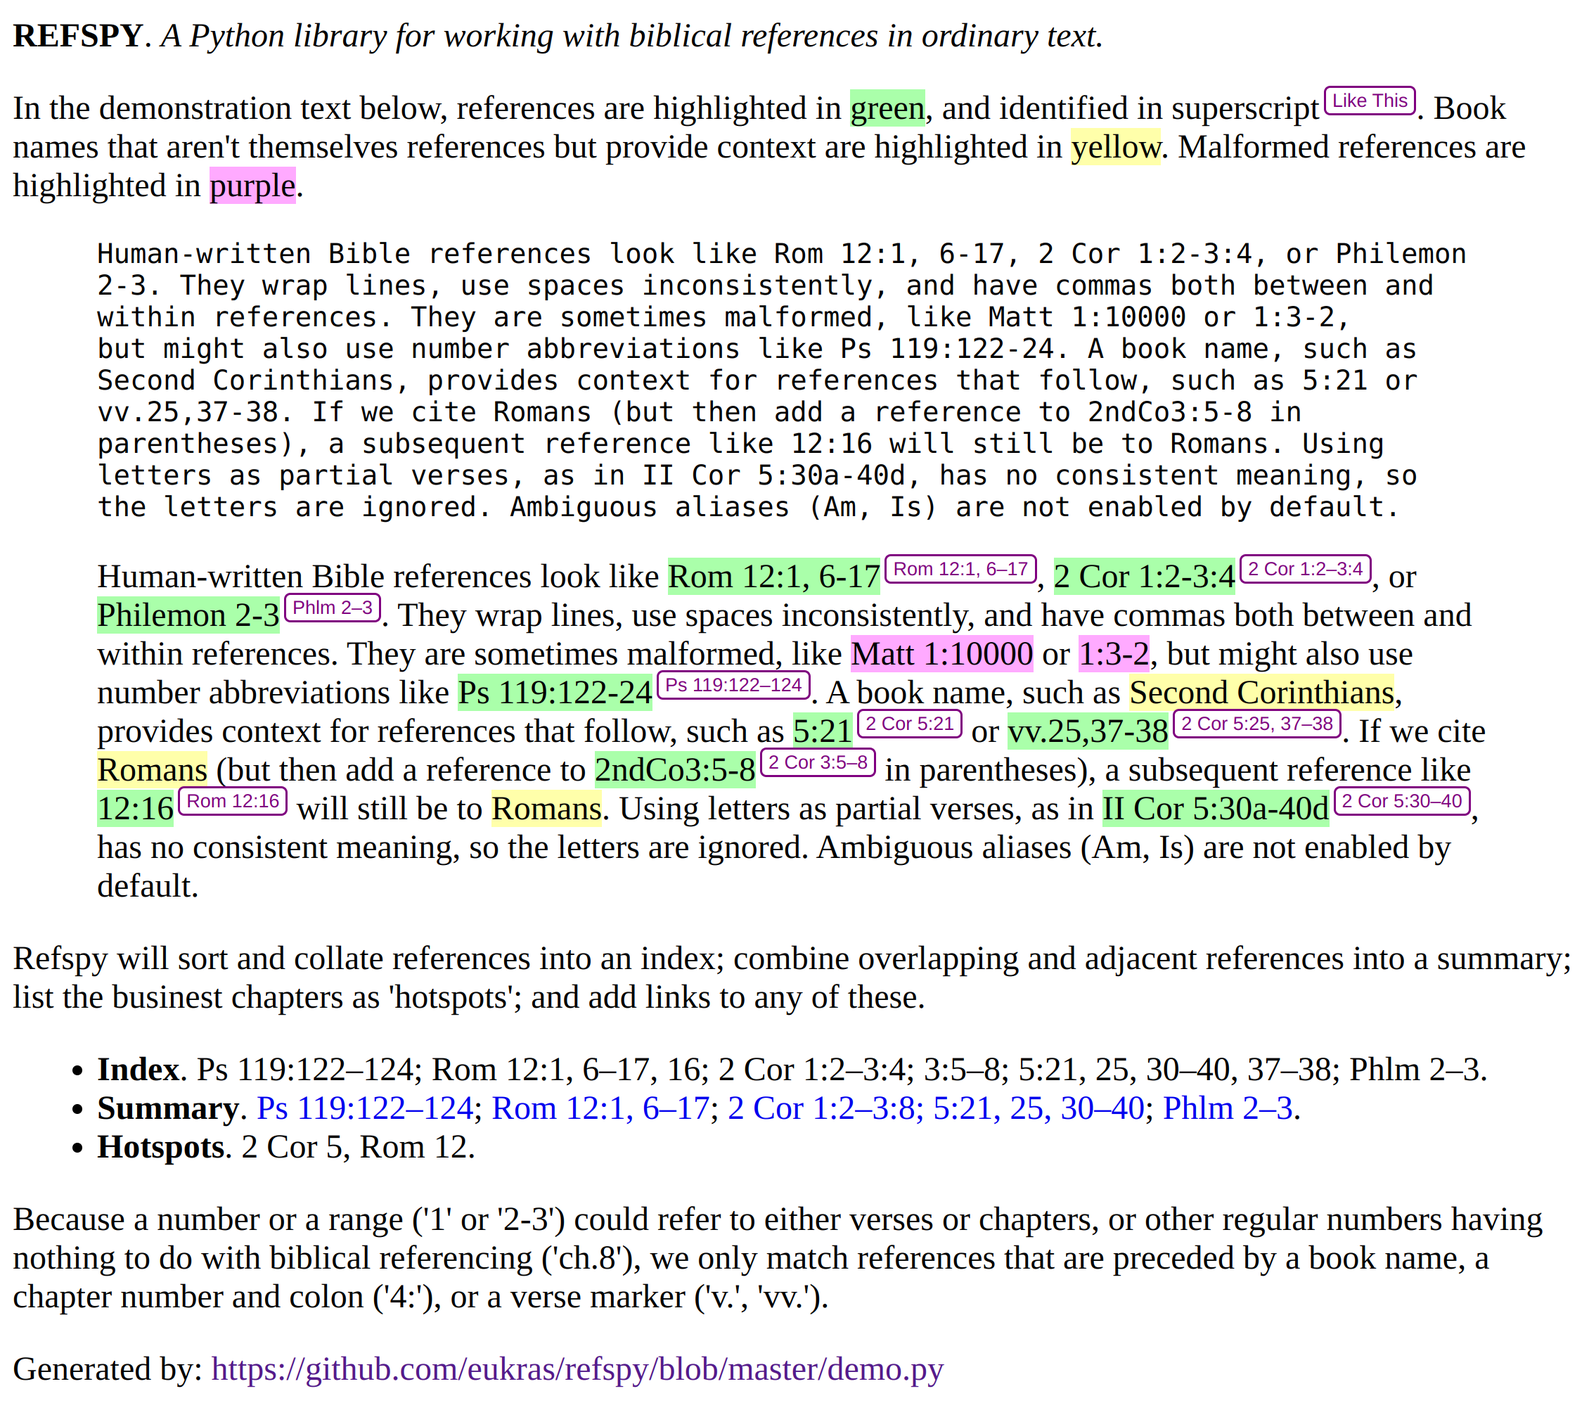
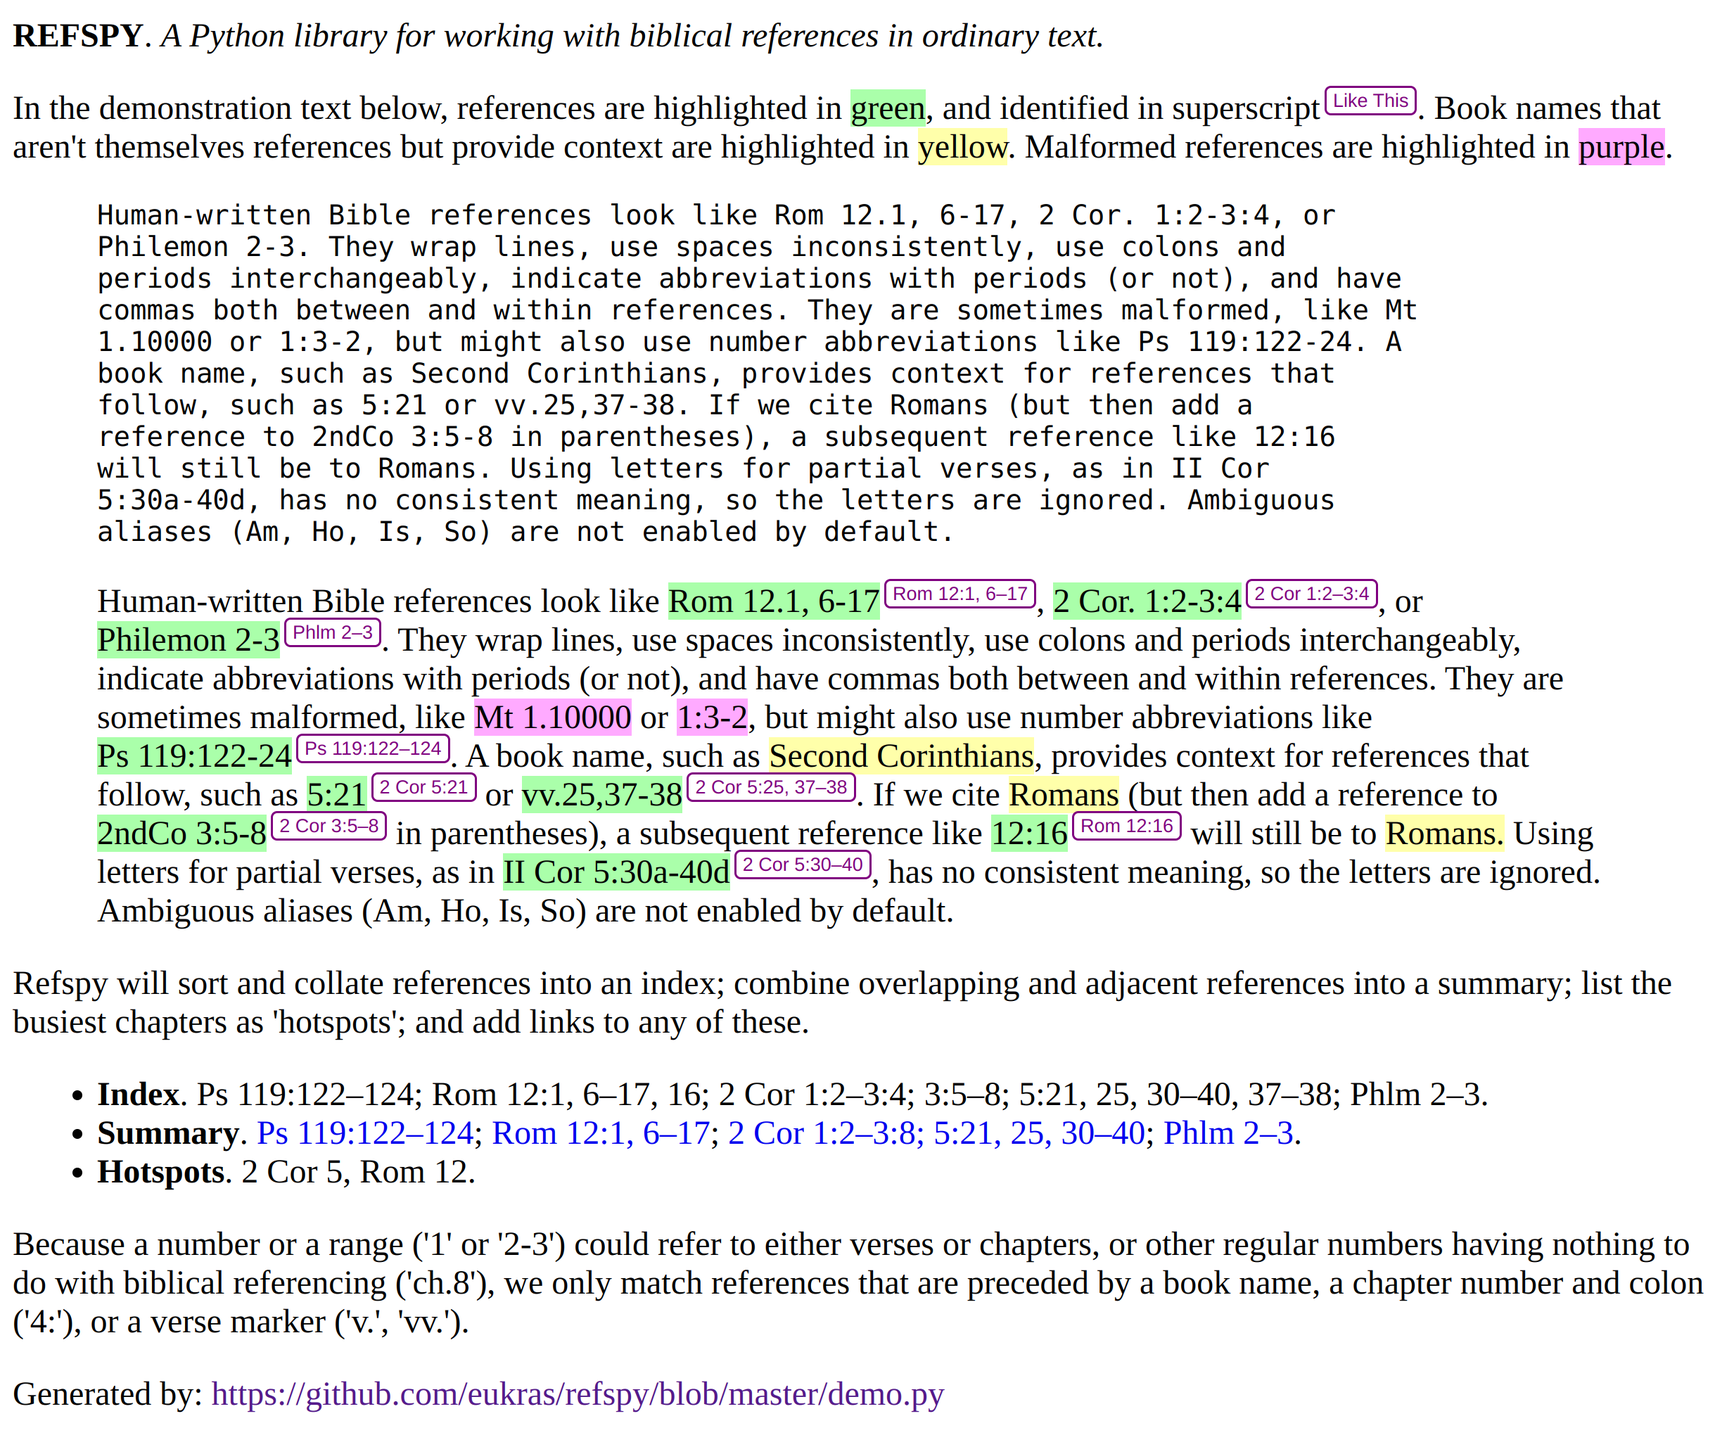
Dots as separators and abbreviations

Changed region(s): [[0.0, 0.0618, 0.9912, 0.9277], [0.0, 0.0, 0.6814, 0.0309], [0.0, 0.9586, 0.5885, 0.9895]]

diff --git a/demo.html b/demo.html
@@ -5,11 +5,10 @@
             a { text-decoration: none; }
             sup { font-family: sans-serif; font-size: xx-small;
                   color: purple; padding: 1px 3px; border: 1px solid purple;
-                  border-radius: 3px; margin-left: 2px; 
-                  white-space: nowrap; }
-            .green { background-color: #aaffaa; }
-            .purple { background-color: #ffaaff; }
-            .yellow { background-color: #ffffaa; }
+                  border-radius: 3px; margin-left: 2px; white-space: nowrap; }
+            .green { background-color: #aaffaa; white-space: nowrap; }
+            .purple { background-color: #ffaaff; white-space: nowrap; }
+            .yellow { background-color: #ffffaa; white-space: nowrap; }
         </style>
     </head>
 
@@ -24,30 +23,34 @@
         Malformed references are highlighted in <span
         class="purple">purple</span>.</p>
         <blockquote><pre>
-Human-written Bible references look like Rom 12:1, 6-17, 2 Cor 1:2-3:4, or Philemon
-2-3. They wrap lines, use spaces inconsistently, and have commas both between and
-within references. They are sometimes malformed, like Matt 1:10000 or 1:3-2,
-but might also use number abbreviations like Ps 119:122-24. A book name, such as
-Second Corinthians, provides context for references that follow, such as 5:21 or
-vv.25,37-38. If we cite Romans (but then add a reference to 2ndCo3:5-8 in
-parentheses), a subsequent reference like 12:16 will still be to Romans. Using
-letters as partial verses, as in II Cor 5:30a-40d, has no consistent meaning, so
-the letters are ignored. Ambiguous aliases (Am, Is) are not enabled by default.
+Human-written Bible references look like Rom 12.1, 6-17, 2 Cor. 1:2-3:4, or
+Philemon 2-3. They wrap lines, use spaces inconsistently, use colons and
+periods interchangeably, indicate abbreviations with periods (or not), and have
+commas both between and within references. They are sometimes malformed, like Mt
+1.10000 or 1:3-2, but might also use number abbreviations like Ps 119:122-24. A
+book name, such as Second Corinthians, provides context for references that
+follow, such as 5:21 or vv.25,37-38. If we cite Romans (but then add a
+reference to 2ndCo 3:5-8 in parentheses), a subsequent reference like 12:16
+will still be to Romans. Using letters for partial verses, as in II Cor
+5:30a-40d, has no consistent meaning, so the letters are ignored. Ambiguous
+aliases (Am, Ho, Is, So) are not enabled by default.
 </pre></blockquote>
         <blockquote>
-Human-written Bible references look like <span class="green">Rom 12:1, 6-17</span><sup>Rom 12:1, 6–17</sup>, <span class="green">2 Cor 1:2-3:4</span><sup>2 Cor 1:2–3:4</sup>, or <span class="green">Philemon
-2-3</span><sup>Phlm 2–3</sup>. They wrap lines, use spaces inconsistently, and have commas both between and
-within references. They are sometimes malformed, like <span class="purple">Matt 1:10000</span> or <span class="purple">1:3-2</span>,
-but might also use number abbreviations like <span class="green">Ps 119:122-24</span><sup>Ps 119:122–124</sup>. A book name, such as
-<span class="yellow">Second Corinthians</span>, provides context for references that follow, such as <span class="green">5:21</span><sup>2 Cor 5:21</sup> or
-<span class="green">vv.25,37-38</span><sup>2 Cor 5:25, 37–38</sup>. If we cite <span class="yellow">Romans</span> (but then add a reference to <span class="green">2ndCo3:5-8</span><sup>2 Cor 3:5–8</sup> in
-parentheses), a subsequent reference like <span class="green">12:16</span><sup>Rom 12:16</sup> will still be to <span class="yellow">Romans</span>. Using
-letters as partial verses, as in <span class="green">II Cor 5:30a-40d</span><sup>2 Cor 5:30–40</sup>, has no consistent meaning, so
-the letters are ignored. Ambiguous aliases (Am, Is) are not enabled by default.
+Human-written Bible references look like <span class="green">Rom 12.1, 6-17</span><sup>Rom 12:1, 6–17</sup>, <span class="green">2 Cor. 1:2-3:4</span><sup>2 Cor 1:2–3:4</sup>, or
+<span class="green">Philemon 2-3</span><sup>Phlm 2–3</sup>. They wrap lines, use spaces inconsistently, use colons and
+periods interchangeably, indicate abbreviations with periods (or not), and have
+commas both between and within references. They are sometimes malformed, like <span class="purple">Mt
+1.10000</span> or <span class="purple">1:3-2</span>, but might also use number abbreviations like <span class="green">Ps 119:122-24</span><sup>Ps 119:122–124</sup>. A
+book name, such as <span class="yellow">Second Corinthians</span>, provides context for references that
+follow, such as <span class="green">5:21</span><sup>2 Cor 5:21</sup> or <span class="green">vv.25,37-38</span><sup>2 Cor 5:25, 37–38</sup>. If we cite <span class="yellow">Romans</span> (but then add a
+reference to <span class="green">2ndCo 3:5-8</span><sup>2 Cor 3:5–8</sup> in parentheses), a subsequent reference like <span class="green">12:16</span><sup>Rom 12:16</sup>
+will still be to <span class="yellow">Romans.</span> Using letters for partial verses, as in <span class="green">II Cor
+5:30a-40d</span><sup>2 Cor 5:30–40</sup>, has no consistent meaning, so the letters are ignored. Ambiguous
+aliases (Am, Ho, Is, So) are not enabled by default.
 </blockquote>
         <p>Refspy will sort and collate references into an index; combine
         overlapping and adjacent references into a summary; list the 
-        businest chapters as 'hotspots'; and add links to any of these.</p>
+        busiest chapters as 'hotspots'; and add links to any of these.</p>
         <ul>
             <li><b>Index</b>. Ps 119:122–124; Rom 12:1, 6–17, 16; 2 Cor 1:2–3:4; 3:5–8; 5:21, 25, 30–40, 37–38; Phlm 2–3.</li>
             <li><b>Summary</b>. <a href="https://www.biblegateway.com/passage/?search=Ps%20119%3A122-124&version=NRSVA"  target="_blank">Ps 119:122–124</a>; <a href="https://www.biblegateway.com/passage/?search=Rom%2012%3A1,%206-17&version=NRSVA"  target="_blank">Rom 12:1, 6–17</a>; <a href="https://www.biblegateway.com/passage/?search=2%20Cor%201%3A2-3%3A8;%205%3A21,%2025,%2030-40&version=NRSVA"  target="_blank">2 Cor 1:2–3:8; 5:21, 25, 30–40</a>; <a href="https://www.biblegateway.com/passage/?search=Phlm%202-3&version=NRSVA"  target="_blank">Phlm 2–3</a>.</li>

diff --git a/demo.py b/demo.py
@@ -5,20 +5,22 @@ from refspy.languages.english import ENGLISH
 __ = refspy()
 
 text_template = """
-Human-written Bible references look like Rom 12:1, 6-17, 2 Cor 1:2-3:4, or Philemon
-2-3. They wrap lines, use spaces inconsistently, and have commas both between and
-within references. They are sometimes malformed, like Matt 1:10000 or 1:3-2,
-but might also use number abbreviations like Ps 119:122-24. A book name, such as
-Second Corinthians, provides context for references that follow, such as 5:21 or
-vv.25,37-38. If we cite Romans (but then add a reference to 2ndCo3:5-8 in
-parentheses), a subsequent reference like 12:16 will still be to Romans. Using
-letters as partial verses, as in II Cor 5:30a-40d, has no consistent meaning, so
-the letters are ignored. Ambiguous aliases ({AMBIGUOUS}) are not enabled by default.
+Human-written Bible references look like Rom 12.1, 6-17, 2 Cor. 1:2-3:4, or
+Philemon 2-3. They wrap lines, use spaces inconsistently, use colons and
+periods interchangeably, indicate abbreviations with periods (or not), and have
+commas both between and within references. They are sometimes malformed, like Mt
+1.10000 or 1:3-2, but might also use number abbreviations like Ps 119:122-24. A
+book name, such as Second Corinthians, provides context for references that
+follow, such as 5:21 or vv.25,37-38. If we cite Romans (but then add a
+reference to 2ndCo 3:5-8 in parentheses), a subsequent reference like 12:16
+will still be to Romans. Using letters for partial verses, as in II Cor
+5:30a-40d, has no consistent meaning, so the letters are ignored. Ambiguous
+aliases ({AMBIGUOUS}) are not enabled by default.
 """
 
-text = text_template.replace('{AMBIGUOUS}', ', '.join(ENGLISH.ambiguous_aliases))
+TEXT = text_template.replace('{AMBIGUOUS}', ', '.join(ENGLISH.ambiguous_aliases))
 
-matches = __.find_references(text, include_books=True, include_nones=True)
+matches = __.find_references(TEXT, include_books=True, include_nones=True)
 strs, tags = [], []
 for match_str, ref in matches:
     strs.append(match_str)
@@ -32,7 +34,7 @@ for match_str, ref in matches:
         )
 
 references = [ref for _, ref in matches if ref and not ref.is_book()]
-index = __.make_index(references)
+INDEX = __.make_index(references)
 
 bible_gateway = (
     '<a href="https://www.biblegateway.com/passage/'
@@ -40,8 +42,8 @@ bible_gateway = (
     + ' target="_blank">{ABBREV_NAME}</a>'
 )
 
-summary = __.make_summary(references, pattern=bible_gateway)
-hotspots = __.make_hotspots_text(references, max_chapters=7, min_references=2)
+SUMMARY = __.make_summary(references, pattern=bible_gateway)
+HOTSPOTS = __.make_hotspots_text(references, max_chapters=7, min_references=2)
 
 GENERATOR = "https://github.com/eukras/refspy/blob/master/demo.py"
 
@@ -52,11 +54,10 @@ print("""
             a { text-decoration: none; }
             sup { font-family: sans-serif; font-size: xx-small;
                   color: purple; padding: 1px 3px; border: 1px solid purple;
-                  border-radius: 3px; margin-left: 2px; 
-                  white-space: nowrap; }
-            .green { background-color: #aaffaa; }
-            .purple { background-color: #ffaaff; }
-            .yellow { background-color: #ffffaa; }
+                  border-radius: 3px; margin-left: 2px; white-space: nowrap; }
+            .green { background-color: #aaffaa; white-space: nowrap; }
+            .purple { background-color: #ffaaff; white-space: nowrap; }
+            .yellow { background-color: #ffffaa; white-space: nowrap; }
         </style>
     </head>
 """)
@@ -70,15 +71,15 @@ print(f"""
         context are highlighted in <span class="yellow">yellow</span>.
         Malformed references are highlighted in <span
         class="purple">purple</span>.</p>
-        <blockquote><pre>{text}</pre></blockquote>
-        <blockquote>{sequential_replace(text, strs, tags)}</blockquote>
+        <blockquote><pre>{TEXT}</pre></blockquote>
+        <blockquote>{sequential_replace(TEXT, strs, tags)}</blockquote>
         <p>Refspy will sort and collate references into an index; combine
         overlapping and adjacent references into a summary; list the 
-        businest chapters as 'hotspots'; and add links to any of these.</p>
+        busiest chapters as 'hotspots'; and add links to any of these.</p>
         <ul>
-            <li><b>Index</b>. {index}.</li>
-            <li><b>Summary</b>. {summary}.</li>
-            <li><b>Hotspots</b>. {hotspots}.</li>
+            <li><b>Index</b>. {INDEX}.</li>
+            <li><b>Summary</b>. {SUMMARY}.</li>
+            <li><b>Hotspots</b>. {HOTSPOTS}.</li>
         </ul>
         <p> Because a number or a range ('1' or '2-3') could refer to either
         verses or chapters, or other regular numbers having nothing to do with

diff --git a/refspy/matcher.py b/refspy/matcher.py
@@ -13,10 +13,10 @@ from refspy.reference import (
     book_reference,
     reference,
 )
-from refspy.utils import add_space_after_book_number, get_unnumbered_book_aliases, parse_number, normalize_spacing
+from refspy.utils import add_space_after_book_number, get_unnumbered_book_aliases, parse_number, normalize_spacing, trim_trailing_period
 from refspy.verse import Number, verse
 
-COLON = r":"
+COLON = r"[:\.]"
 DASH = r"[–-]"
 END = r"\b"
 NUMBER = r"\d+[a-d]?"
@@ -173,8 +173,14 @@ class Matcher:
                 + r")"
                 + r"\s*"
                 + "(?:"
-                + "|".join([escape_book_name(_) for _ in long_names_first(aliases)])
+                + "|".join([
+                        escape_book_name(_)
+                        for _ in long_names_first(aliases)
+                    ])
                 + ")"
+                # + r"(?![^A-Za-z])"  # <-- Need a non-alpha lookahead?
+                + r"\b"
+                + r"\.?"
             )
         leading_digits = re.compile(r"^\d+\s")
         aliases = [
@@ -184,6 +190,9 @@ class Matcher:
             r"(?:"
             + "|".join([escape_book_name(_) for _ in long_names_first(aliases)])
             + ")"
+            # + r"(?![^A-Za-z])"  # <-- Need a non-alpha lookahead?
+            + r"\b"
+            + r"\.?"
         )
         return r"|".join(regexp_parts)
 
@@ -220,7 +229,7 @@ class Matcher:
                 number
                 + r"(?!"
                 + r"\s*"
-                + "(?:"
+                + "(?:"  # <-- COLON?
                 + "|".join([re.escape(key) for key in sorted(set(aliases))])
                 + "))"
             )
@@ -247,6 +256,14 @@ class Matcher:
         Match references and parentheses separately, then take the next lowest
         item (by starting match position) from the regexp match generators, and
         process. Yield references for book names and chapter/verse numbers.
+
+        This is the base function used by `__.find_references()` and
+        `__.first_reference()`.
+
+        Args:
+            text: In which to find references
+            include_books: Whether to match book names alone
+            include_nones: Whether to match malformed references
         """
         brackets_matches = self.brackets_regexp.finditer(text)
         reference_matches = self.name_regexp.finditer(text)
@@ -285,10 +302,11 @@ class Matcher:
                 try:
                     if book_name:
                         respaced_book_name = add_space_after_book_number(
-                            normalize_spacing(book_name),
+                            normalize_spacing(trim_trailing_period(book_name)),
                             unnumbered_book_aliases,
                             self.language.number_prefixes
                         )
+
                         if respaced_book_name in self.book_aliases:
                             library_id, book_id = self.book_aliases[respaced_book_name]
                             book = self.books[library_id, book_id]

diff --git a/tests/test_matcher.py b/tests/test_matcher.py
@@ -353,15 +353,15 @@ def test_book_number_spacing_is_optional():
         assert next(__) is None
 
 
-def test_reference_number_spacing_is_optional():
-    sample_text = "1 Book1:1"
-    first_reference = verse_reference(1, 4, 1, 1)
-    __ = matcher.generate_references(sample_text)
-    text, ref = next(__)
-    assert text == "1 Book1:1"
-    assert ref == first_reference
-    with pytest.raises(StopIteration):
-        assert next(__) is None
+# def test_reference_number_spacing_is_optional():
+#     sample_text = "1Book1:1"
+#     first_reference = verse_reference(1, 4, 1, 1)
+#     __ = matcher.generate_references(sample_text)
+#     text, ref = next(__)
+#     assert text == "1Book1:1"
+#     assert ref == first_reference
+#     with pytest.raises(StopIteration):
+#         assert next(__) is None
 
 def test_line_wrapping():
     text = """
@@ -377,15 +377,14 @@ def test_line_wrapping():
     )
     assert ref == chapter_reference(1, 4, 5)
 
-
 def test_nonnumeric_prefixes():
-    text = "1stBook6:6 IBook6:6"
+    text = "1stBook 6:6 IBook 6:6"
     __ = matcher.generate_references(text)
     text, ref = next(__)
-    assert text == "1stBook6:6"
+    assert text == "1stBook 6:6"
     assert ref == verse_reference(1, 4, 6, 6)
     text, ref = next(__)
-    assert text == "IBook6:6"
+    assert text == "IBook 6:6"
     assert ref == verse_reference(1, 4, 6, 6)
 
 
@@ -394,3 +393,21 @@ def test_infer_abbreviation():
     assert infer_abbreviation("12", "4") == "14"
     assert infer_abbreviation("24", "23") is None
     assert infer_abbreviation("4", "3") is None
+
+
+def test_periods_on_abbreviations_and_aliases():
+    text = "Sm. 1; Bg.1:1"
+    __ = matcher.generate_references(text)
+    text, ref = next(__)
+    assert text == "Sm. 1"
+    assert ref == verse_reference(1, 3, 1, 1)
+    text, ref = next(__)
+    assert text == "Bg.1:1"
+    assert ref == verse_reference(1, 2, 1, 1)
+
+def test_aliases_dont_match_the_start_of_words():
+    text = "Smash and grab"
+    #       ^^ Start of 'Sm' (Small)
+    __ = matcher.generate_references(text, include_books=True, include_nones=True)
+    with pytest.raises(StopIteration):
+        text, ref = next(__)

diff --git a/tests/test_debugging.py b/tests/test_debugging.py
@@ -104,3 +104,8 @@ def test_malformed_brackets():
     assert refs[1][1] == verse_reference(NT.id, 7, 5, 24)
     assert refs[2][1] == verse_reference(NT.id, 7, 3, 16)
     assert refs[3][1] == verse_reference(NT.id, 7, 1, 16, 17)
+
+def test_start_of_words():
+    refs = __.find_references("Esxxx Gexxx Rexxx Laxxx!", include_books=True, include_nones=True)
+    #                          Esth  Gen   Rev   Lam
+    assert len(refs) == 0; # ??

diff --git a/refspy/libraries/en_US.py b/refspy/libraries/en_US.py
@@ -306,12 +306,12 @@ DC = Library(
             chapters=16,
         ),
         Book(
+            # TODO: Offsets: 11..16? 
             id=3,
             name="Additions to Esther",
             abbrev="Add Esth",
             aliases=["Esg"], # "Esther Greek"
-            chapters=7,
-            # TODO: Offsets: 11..16; or handle 'Greek Esther' (10 chapters).
+            chapters=10,
         ),
         Book(
             id=4,

diff --git a/refspy/utils.py b/refspy/utils.py
@@ -85,6 +85,11 @@ def add_space_after_book_number(name: str, unnumbered_book_aliases: set, number_
                 return number + ' ' + tail
     return re.sub(r"^(\d)([A-Z])([a-z].*)$", r"\1 \2\3", name)
 
+def trim_trailing_period(text: str) -> str: 
+    """Remove any tailing '.' character.
+    """
+    return text.rstrip('.')
+
 def normalize_spacing(text: str) -> str:
     """Replace multiple spaces with single spaces.
 

diff --git a/tests/test_options.py b/tests/test_options.py
@@ -50,3 +50,11 @@ def test_include_ambiguous_aliases():
     assert ref == __.bcv('Isaiah', 1, 1)
 
 
+def test_not_matching_parts_of_words():
+    __ = refspy(include_two_letter_aliases=True, include_ambiguous_aliases=True)
+
+    match, ref = __.first_reference("Test test test. Especially the last part.")
+    #                                          ^^  Match Esther?
+    assert match == None
+    assert ref == None
+

diff --git a/tests/data.py b/tests/data.py
@@ -13,7 +13,7 @@ BIG_BOOK = Book(
     id=2,
     name="Big Book",
     abbrev="Big",
-    aliases=["Large"],
+    aliases=["Large", "Bg"],
     chapters=50,
 )
 
@@ -21,7 +21,7 @@ SMALL_BOOK = Book(
     id=3,
     name="Small Book",
     abbrev="Small",
-    aliases=["Tiny"],
+    aliases=["Tiny", "Sm"],
     chapters=1,
 )
 

diff --git a/TODO.md b/TODO.md
@@ -2,21 +2,19 @@
 
 ## Status
 
-* `0.9.16` Matches two-letter aliases by default, except for ambiguous words.
-* `0.9.7` is feature-complete. 
-* `0.9.13` Adds indexes, hotspots, tweaks for integration. 
+* `0.9.16`: Matches dots at the end of abbreviations (`Mt. 15`, needed for APA style) and as separators; Matches two-letter aliases by default except for ambiguous words.
+* `0.9.13`: Adds indexes, hotspots, tweaks for integration. 
+* `0.9.7`: is feature-complete. 
 
 ## Next 
 
-* Test against human writing styles (use Article Wiki as a live demo and
-  playground); expand test suites to reflect special cases. 
+* Test against human writing styles (use Article Wiki as a live demo and playground); expand test suites to reflect special cases. 
 * Collect a gallery of difficult source texts.
 
 ## Possibilities
 
-* match dot separators, not just colons?
-* match dots at the end of abbreviations (`Mt. 15`, needed for APA style)
-* match roman numerals for chapters? ("quaint mode")
+* Make spaces between name and number references optional.
+* Match roman numerals for chapters? ("quaint mode")
 
 ## More remote possibilities 
 
